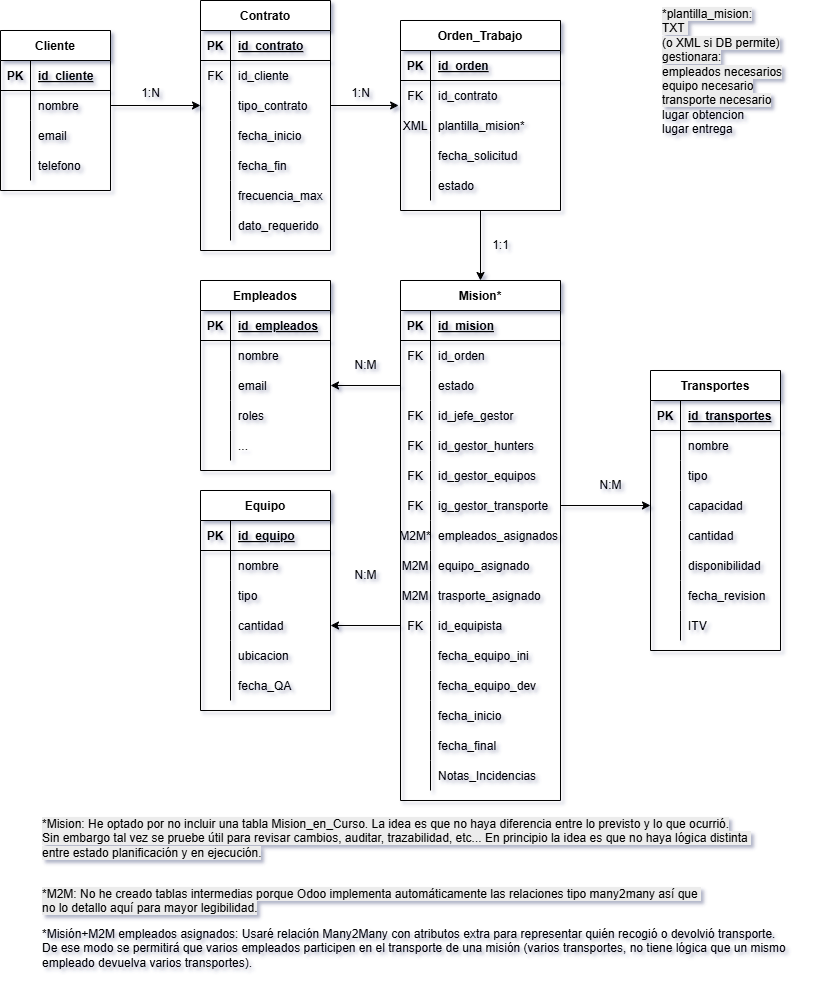
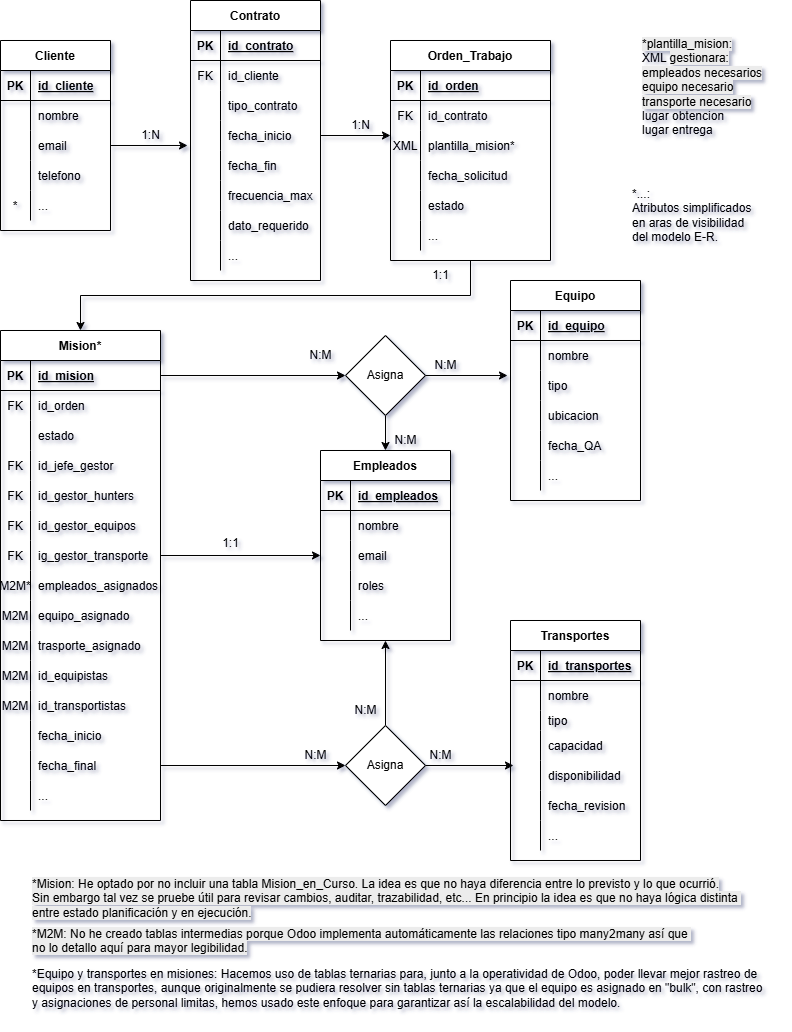
Retoque E-R e index

diff --git a/docs/index.md b/docs/index.md
@@ -79,8 +79,8 @@ Incluye automatización de:
 
 ## 🗺 Mapa del Módulo
 
-1. ![]({{ site.baseurl }}/assets/images/mapa/Mapsite texto.png)  
-2. ![]({{ site.baseurl }}/assets/images/mapa/Mapsite Malkion.png)
+![](https://davidalbigarcia.github.io/datamalkion_mod1/assets/images/mapa/Mapsite texto.png)  
+![](https://davidalbigarcia.github.io/datamalkion_mod1/assets/images/mapa/Mapsite Malkion.png)
 
 
 ---
@@ -88,7 +88,7 @@ Incluye automatización de:
 
 ## 📦 Dependencias del módulo
 
-El módulo **Malkion Data ** se apoya en diversos módulos nativos de Odoo para aprovechar funcionalidades existentes y garantizar una integración fluida con el ecosistema empresarial. Las principales dependencias son:
+El módulo **Malkion Data** se apoya en diversos módulos nativos de Odoo para aprovechar funcionalidades existentes y garantizar una integración fluida con el ecosistema empresarial. Las principales dependencias son:
 
 - `'base'`: núcleo de Odoo, requerido por todos los módulos.
 - `'hr'`: modificado para ampliar la gestión de empleados y clasificarlos según su rol operativo (arqueros, cazadores, recolectores, transportistas...).
@@ -101,7 +101,7 @@ El módulo **Malkion Data ** se apoya en diversos módulos nativos de Odoo para 
 
 ## 🖼 Wireframes
 
-➡ [Ver wireframes]({{ site.baseurl }}/wireframes/)
+➡ [Ver wireframes](https://davidalbigarcia.github.io/datamalkion_mod1/wireframes/)
 
 ---
 
@@ -136,20 +136,20 @@ El módulo define diferentes grupos de usuario según el rol en el proceso. Cada
 
 ## 🧬 Diagrama Entidad-Relación
 
-![Diagrama E-R]({{ site.baseurl }}/assets/images/er/PFM F4 ER Modulo Malkion Data.png)
+![Diagrama E-R](https://davidalbigarcia.github.io/datamalkion_mod1/assets/images/er/PFM F4 ER Modulo Malkion Data.png)
 
 ---
 
 ## 🔁 Diagramas de Flujo
 
 1. **Generación de Misión desde Orden de Trabajo**  
-   ![]({{ site.baseurl }}/assets/images/diagramas/Flujo_Orden_Trabajo_fondo.png)
+   ![](https://davidalbigarcia.github.io/datamalkion_mod1/assets/images/diagramas/Flujo_Orden_Trabajo_fondo.png)
 
 2. **Aprobación de Gestores y Asignación de Recursos**  
-   ![]({{ site.baseurl }}/assets/images/diagramas/Flujo_mision_iniciada_fondo.png)
+   ![](https://davidalbigarcia.github.io/datamalkion_mod1/assets/images/diagramas/Flujo_mision_iniciada_fondo.png)
 
 3. **Ejecución y Cierre de Misión**  
-   ![]({{ site.baseurl }}/assets/images/diagramas/Flujo_Mision_Ejecucion_General_fondo.png)
+   ![](https://davidalbigarcia.github.io/datamalkion_mod1/assets/images/diagramas/Flujo_Mision_Ejecucion_General_fondo.png)
 
 ---
 
